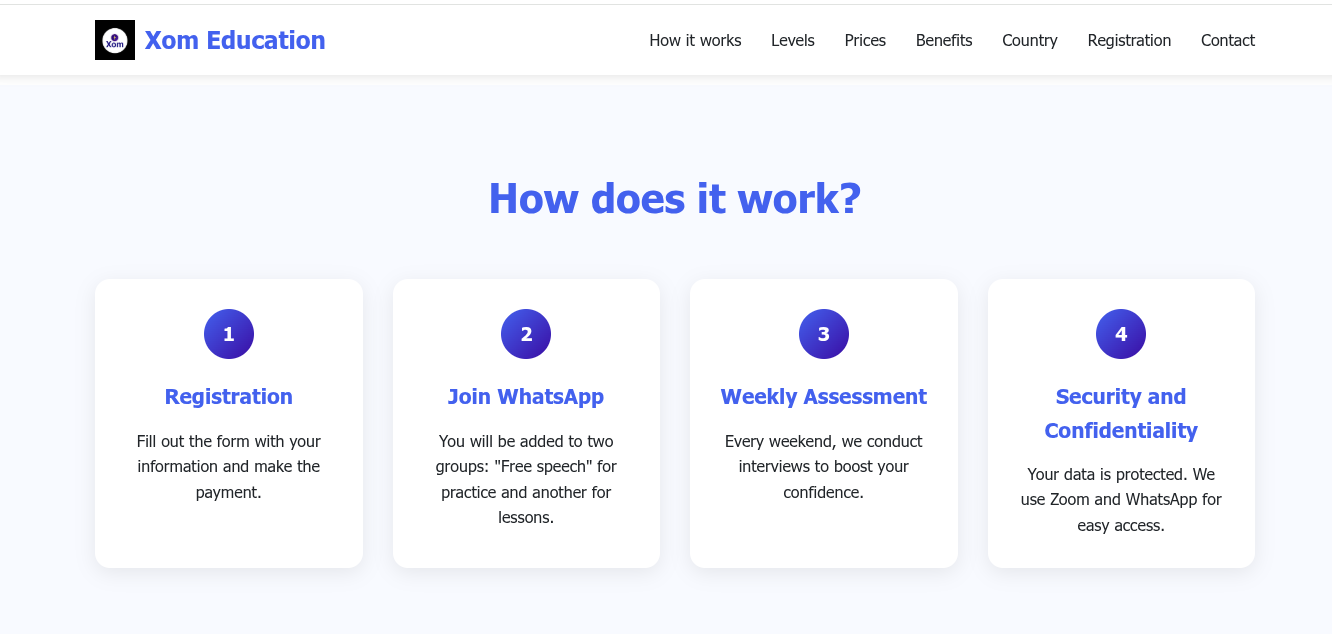
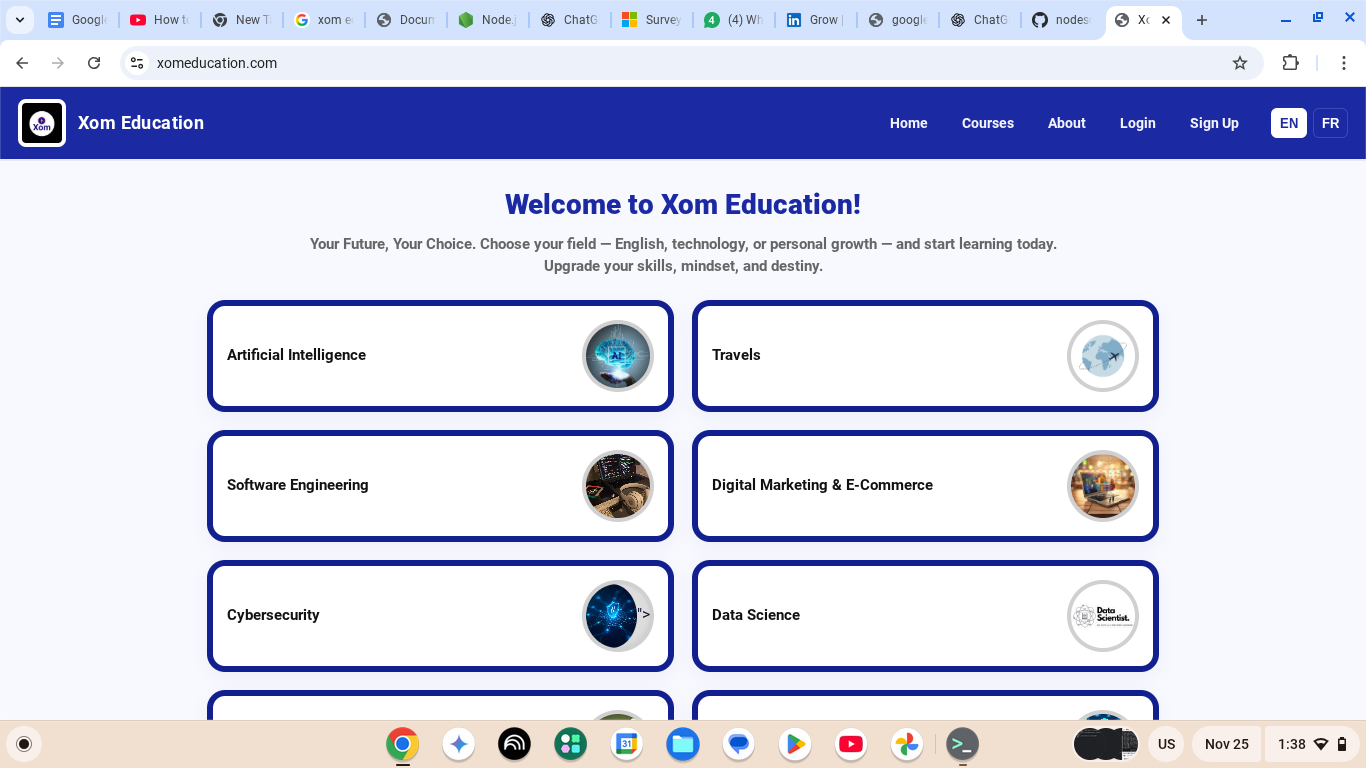
Add files via upload

diff --git a/index.html b/index.html
@@ -1025,7 +1025,7 @@
                             <span class="tech-tag" data-i18n="projects.responsive">Responsive</span>
                         </div>
                         <div class="project-links">
-                            <a href="https://francisdabou72-hub.github.io/xomeducationenglish/" class="btn btn-primary"
+                            <a href="https://www.xomeducation.com" class="btn btn-primary"
                                 data-i18n="projects.liveDemo">Live Demo</a>
 
                         </div>
@@ -1256,7 +1256,7 @@
             </div>
         </div>
         <div class="copyright">
-            <p>&copy; francis-dabou.com 2025. All rights reserved.</p>
+            <p>&copy; francisdabou.com 2026. All rights reserved.</p>
         </div>
         </div>
     </footer>
